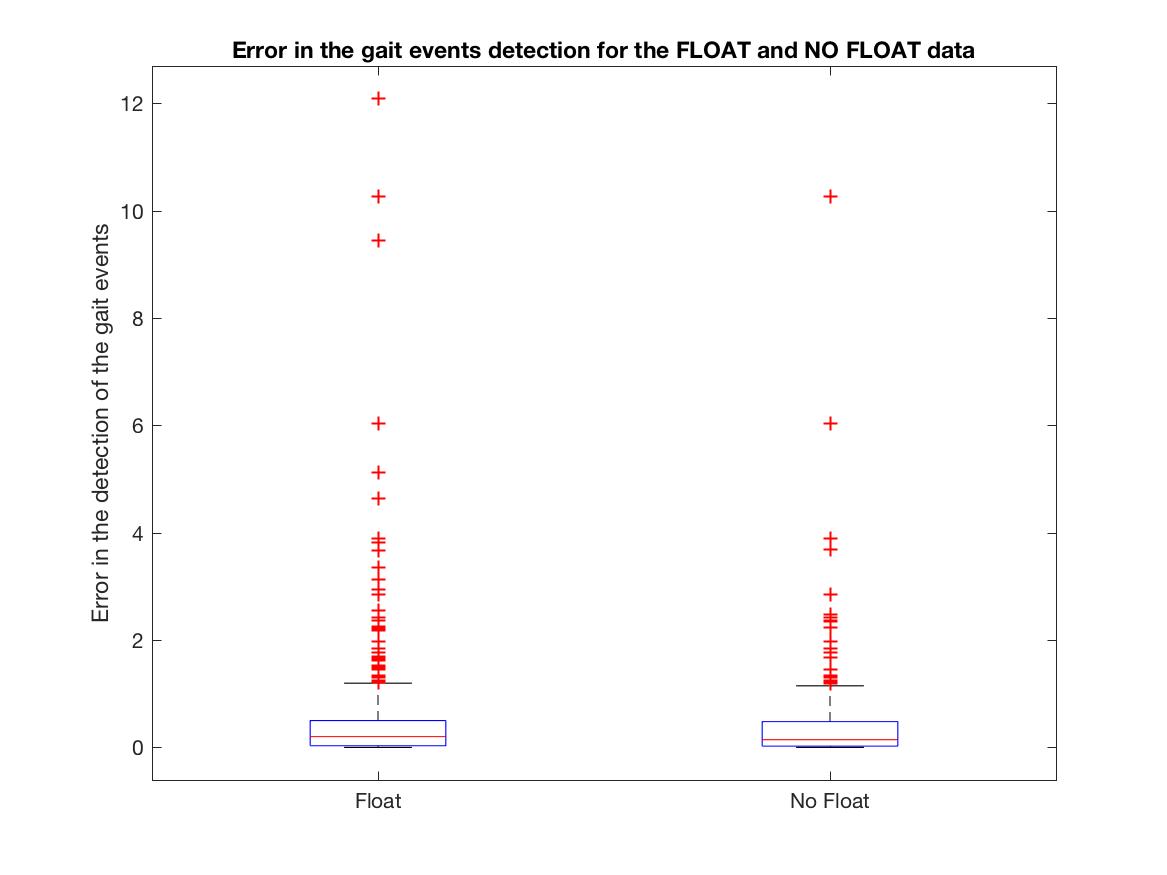
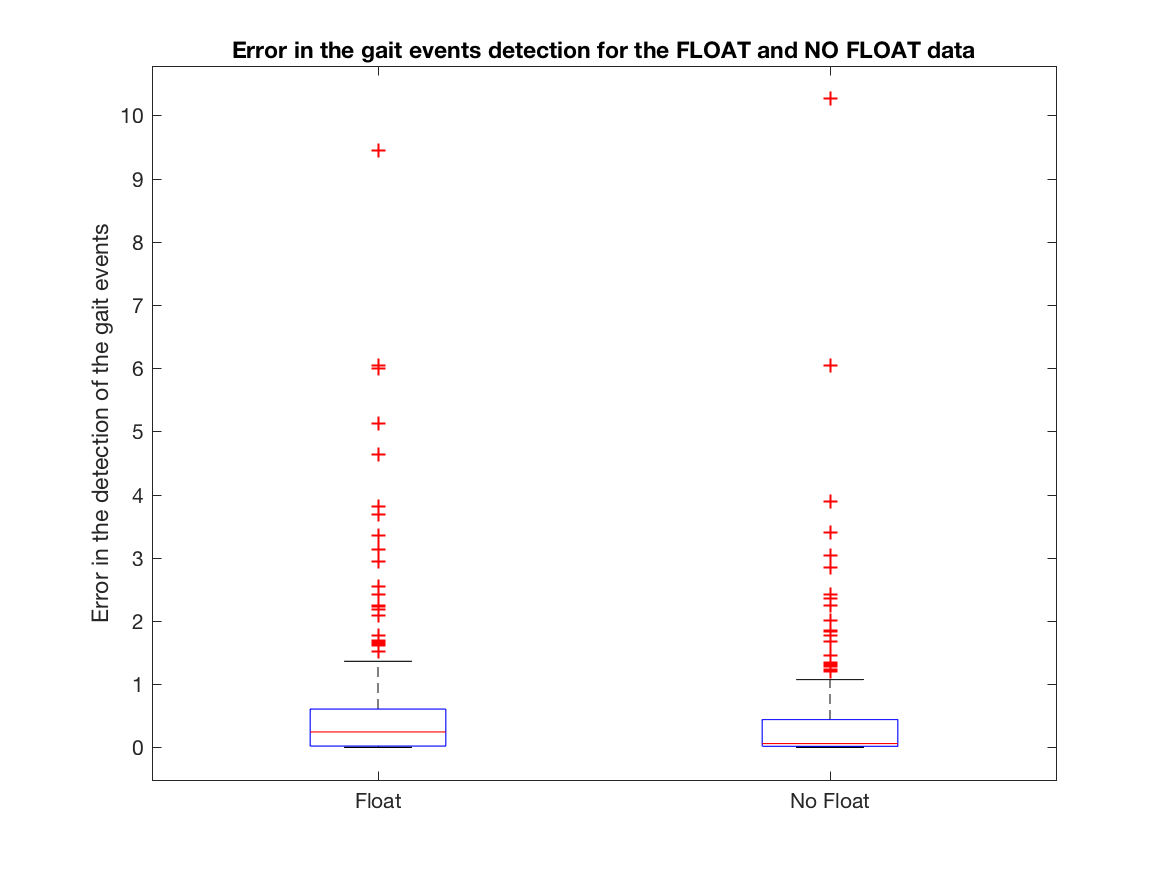
UPDATE algorithm performance graphs

diff --git a/calculatePerformance.m b/calculatePerformance.m
@@ -1,6 +1,16 @@
 function [detectionErrorFloat, detectionErrorNoFloat] = calculatePerformance()
 
-    detectionErrorFloat = algorithmPerformance('DetectedHealthyGaitEvents/*FLOAT*', 'HealthyGaitEvents/*FLOAT*');
-    detectionErrorNoFloat = algorithmPerformance('DetectedHealthyGaitEvents/*NO_FLOAT*', 'HealthyGaitEvents/*NO_FLOAT*');
+    detectionErrorFloat = [algorithmPerformance('DetectedHealthyGaitEvents/*S1_FLOAT*', 'HealthyGaitEvents/*S1_FLOAT*'),...
+        algorithmPerformance('DetectedHealthyGaitEvents/*S2_FLOAT*', 'HealthyGaitEvents/*S2_FLOAT*'), ...
+        algorithmPerformance('DetectedHealthyGaitEvents/*S3_FLOAT*', 'HealthyGaitEvents/*S3_FLOAT*'), ...
+        algorithmPerformance('DetectedHealthyGaitEvents/*S4_FLOAT*', 'HealthyGaitEvents/*S4_FLOAT*'), ...
+        algorithmPerformance('DetectedHealthyGaitEvents/*S5_FLOAT*', 'HealthyGaitEvents/*S5_FLOAT*'), ...
+        algorithmPerformance('DetectedHealthyGaitEvents/*S6_FLOAT*', 'HealthyGaitEvents/*S6_FLOAT*')];
+    detectionErrorNoFloat = [algorithmPerformance('DetectedHealthyGaitEvents/*S1_NO_FLOAT*', 'HealthyGaitEvents/*S1_NO_FLOAT*'), ...
+        algorithmPerformance('DetectedHealthyGaitEvents/*S2_NO_FLOAT*', 'HealthyGaitEvents/*S2_NO_FLOAT*'), ...
+        algorithmPerformance('DetectedHealthyGaitEvents/*S3_NO_FLOAT*', 'HealthyGaitEvents/*S3_NO_FLOAT*'), ...
+        algorithmPerformance('DetectedHealthyGaitEvents/*S4_NO_FLOAT*', 'HealthyGaitEvents/*S4_NO_FLOAT*'), ...
+        algorithmPerformance('DetectedHealthyGaitEvents/*S5_NO_FLOAT*', 'HealthyGaitEvents/*S5_NO_FLOAT*'), ...
+        algorithmPerformance('DetectedHealthyGaitEvents/*S6_NO_FLOAT*', 'HealthyGaitEvents/*S6_NO_FLOAT*')];
 
 end
